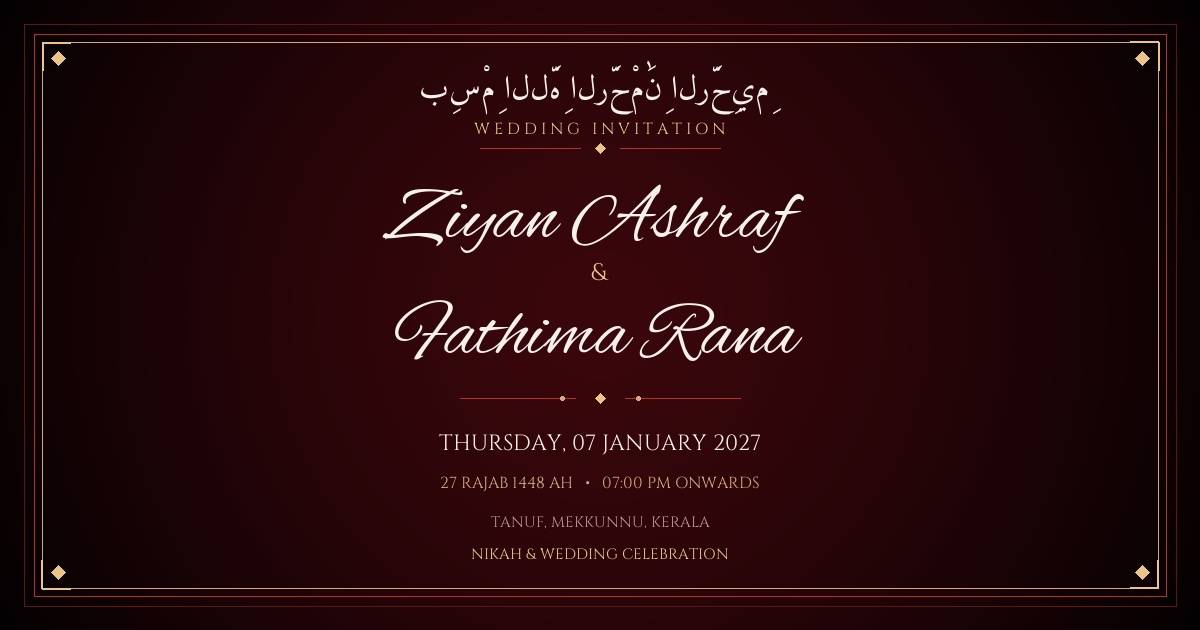
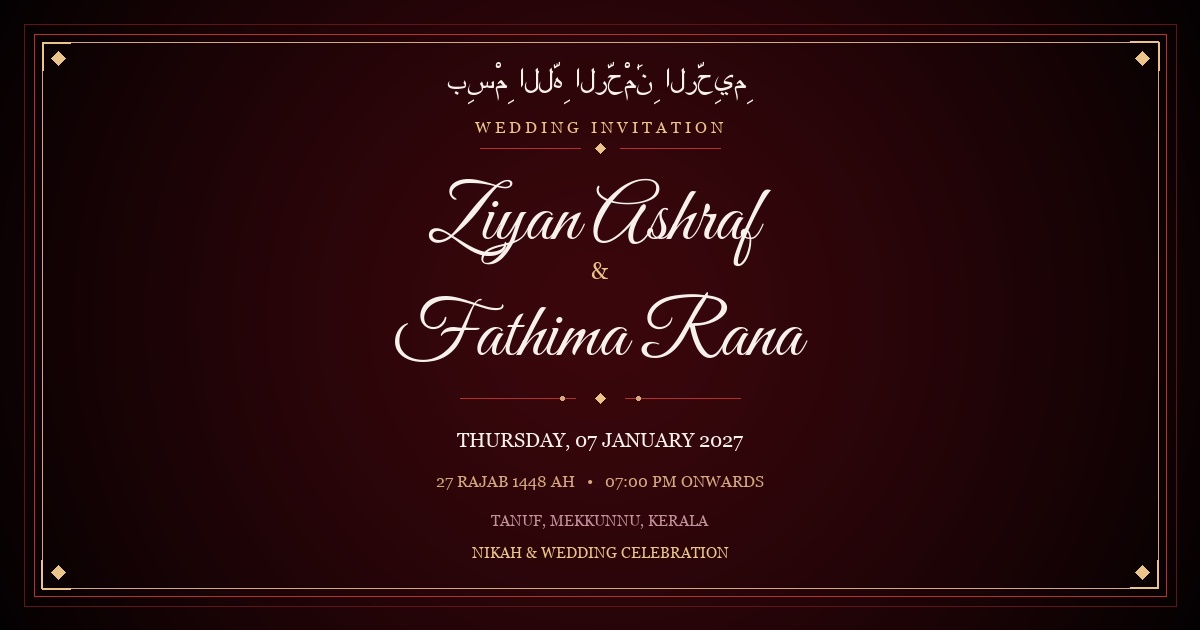
Switch display font to Great Vibes for clear capital F in Fathima Rana

diff --git a/style.css b/style.css
@@ -23,7 +23,7 @@
   --cream:        rgba(200, 57, 58, 0.20);
   --gold-bright:  #e05050;
 
-  --font-display: 'Alex Brush', cursive;
+  --font-display: 'Great Vibes', 'Alex Brush', cursive;
   --font-eyebrow: 'Cinzel', serif;
   --font-body:    'Lora', serif;
   --font-sub:     'Cormorant Garamond', serif;
